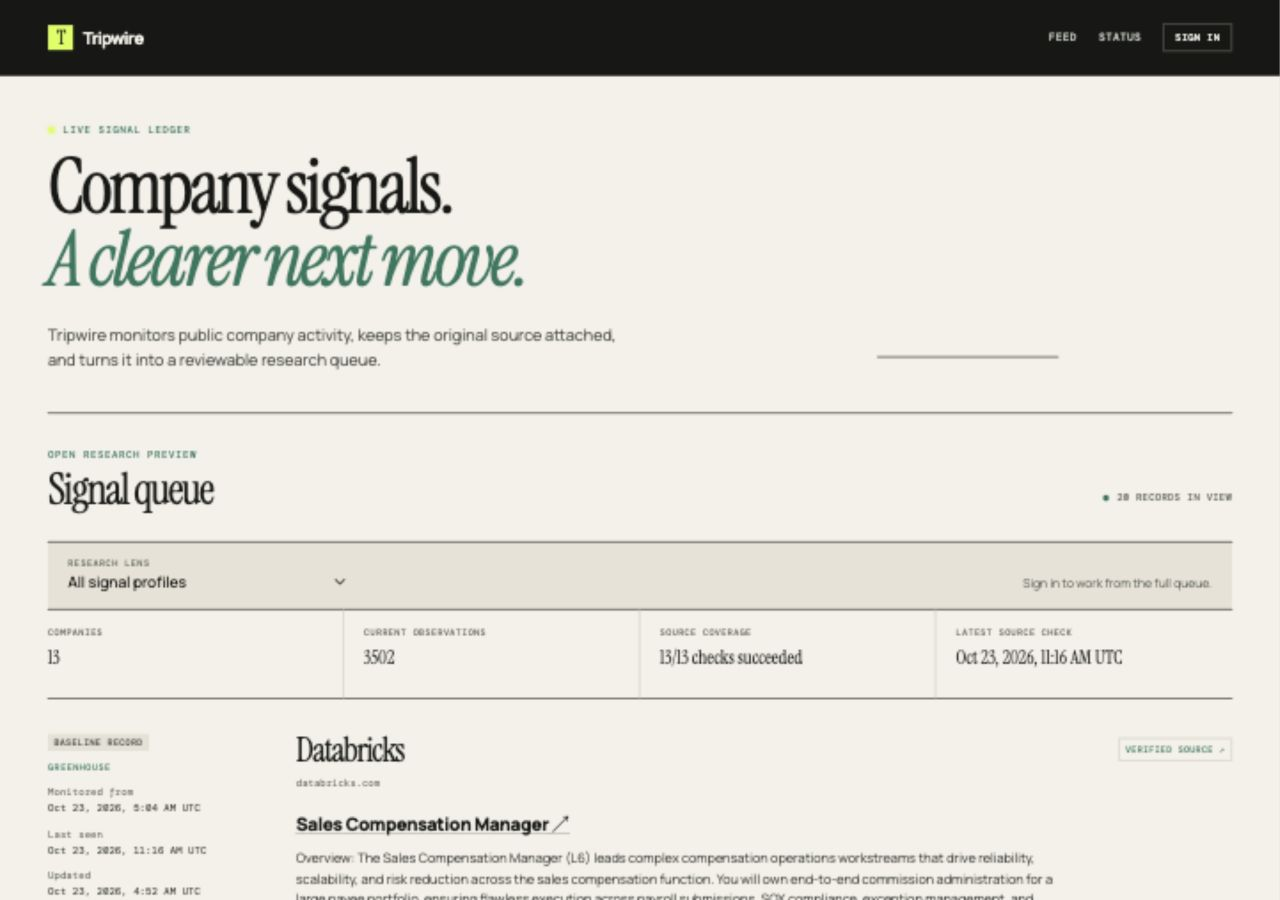
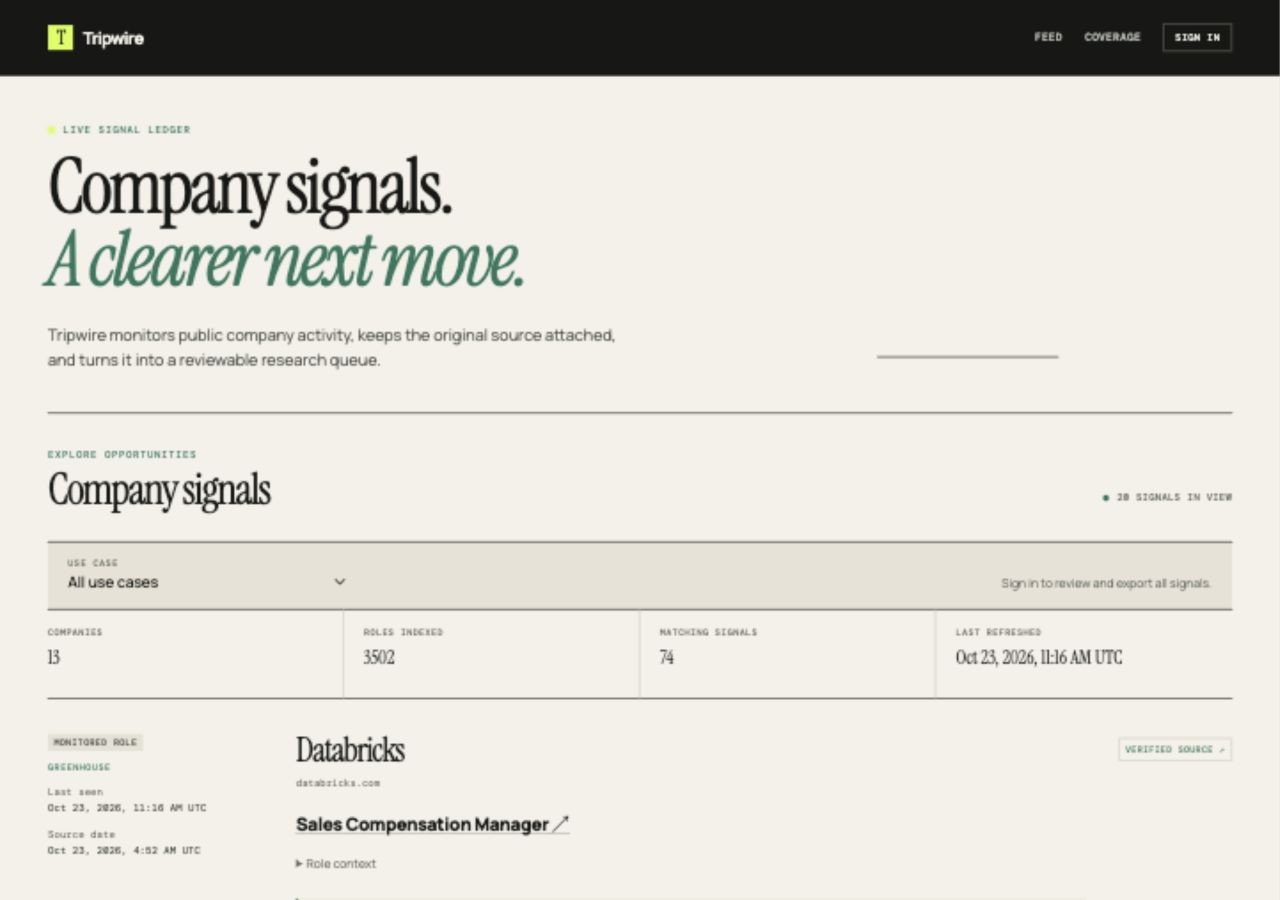
fix(ui): focus client views on signals and company coverage

diff --git a/app/components/Feed.tsx b/app/components/Feed.tsx
@@ -59,14 +59,13 @@ export default function Feed({ initialFeed, authenticated = false }: FeedProps) 
 
   const metrics = feed?.metrics || {};
   const checks = Array.isArray(feed?.health) ? feed.health : [];
-  const latestCheck = checks.map((check: any) => check.checkedAt).filter(Boolean).sort().at(-1);
-  const successfulChecks = checks.filter((check: any) => check.status === 'success').length;
+  const latestCheck = checks.map((check: any) => check.lastSuccessAt).filter(Boolean).sort().at(-1);
   return <section className="feed-section" aria-labelledby="feed-title" aria-busy={loading}>
-    <div className="section-bar"><div><p className="eyebrow">{authenticated ? 'Research workspace' : 'Open research preview'}</p><h2 id="feed-title">Signal queue</h2></div><p className="count" aria-live="polite"><span className="count-pip" aria-hidden="true" />{loading ? 'Refreshing queue' : `${opportunities.length} records in view`}</p></div>
-    <div className="profile-row"><div className="profile-control"><label htmlFor="profile-select">Research lens</label><select id="profile-select" value={profileId} onChange={(event) => changeProfile(event.target.value)}><option value="">All signal profiles</option>{profiles.map((profile: any) => <option value={profile.id} key={profile.id}>{profile.name}{profile.version ? ` · v${profile.version}` : ''}</option>)}</select></div>{authenticated && <a className="export-link" href={profileId ? `/api/export?profileId=${encodeURIComponent(profileId)}` : '/api/export'}>Export records <span aria-hidden="true">↗</span></a>}{!authenticated && <span className="public-note">Sign in to work from the full queue.</span>}</div>
+    <div className="section-bar"><div><p className="eyebrow">{authenticated ? 'Your opportunities' : 'Explore opportunities'}</p><h2 id="feed-title">Company signals</h2></div><p className="count" aria-live="polite"><span className="count-pip" aria-hidden="true" />{loading ? 'Refreshing queue' : `${opportunities.length} signals in view`}</p></div>
+    <div className="profile-row"><div className="profile-control"><label htmlFor="profile-select">Use case</label><select id="profile-select" value={profileId} onChange={(event) => changeProfile(event.target.value)}><option value="">All use cases</option>{profiles.map((profile: any) => <option value={profile.id} key={profile.id}>{profile.name}{profile.version ? ` · v${profile.version}` : ''}</option>)}</select></div>{authenticated && <a className="export-link" href={profileId ? `/api/export?profileId=${encodeURIComponent(profileId)}` : '/api/export'}>Export records <span aria-hidden="true">↗</span></a>}{!authenticated && <span className="public-note">Sign in to review and export all signals.</span>}</div>
     {requestError && <p className="inline-error" role="status">{requestError}</p>}
-    <dl className="feed-metrics"><div><dt>Companies</dt><dd>{typeof metrics.companies === 'number' ? metrics.companies : '—'}</dd></div><div><dt>Current observations</dt><dd>{typeof metrics.currentObservations === 'number' ? metrics.currentObservations : '—'}</dd></div><div><dt>Source coverage</dt><dd>{checks.length ? `${successfulChecks}/${checks.length} checks succeeded` : 'No checks reported'}</dd></div><div><dt>Latest source check</dt><dd>{latestCheck ? date(latestCheck) : 'Unavailable'}</dd></div></dl>
-    {!opportunities.length ? <div className="empty-state"><p className="eyebrow">Queue empty</p><h3>No records match this lens.</h3><p>Try another research lens or return when the next source check completes.</p></div> : <div className="feed-list">{opportunities.map((opportunity: any) => <Opportunity key={opportunity.id} opportunity={opportunity} authenticated={authenticated} feedback={feedback[opportunity.id]} onFeedback={sendFeedback} />)}</div>}
+    <dl className="feed-metrics"><div><dt>Companies</dt><dd>{typeof metrics.companies === 'number' ? metrics.companies : '—'}</dd></div><div><dt>Roles indexed</dt><dd>{typeof metrics.currentObservations === 'number' ? metrics.currentObservations : '—'}</dd></div><div><dt>Matching signals</dt><dd>{typeof metrics.matchingOpportunities === 'number' ? metrics.matchingOpportunities : '—'}</dd></div><div><dt>Last refreshed</dt><dd>{latestCheck ? date(latestCheck) : 'Unavailable'}</dd></div></dl>
+    {!opportunities.length ? <div className="empty-state"><p className="eyebrow">Queue empty</p><h3>No signals match this use case.</h3><p>Choose another use case to explore more signals.</p></div> : <div className="feed-list">{opportunities.map((opportunity: any) => <Opportunity key={opportunity.id} opportunity={opportunity} authenticated={authenticated} feedback={feedback[opportunity.id]} onFeedback={sendFeedback} />)}</div>}
   </section>;
 }
 
@@ -75,12 +74,12 @@ function Opportunity({ opportunity, authenticated, feedback, onFeedback }: { opp
   const event = opportunity.event || opportunity;
   const href = safeSourceUrl(event.url);
   return <article className="opportunity" aria-labelledby={`opportunity-${opportunity.id}`}>
-    <aside className="opportunity-meta"><span className={`observation-state${event.baseline ? '' : ' observation-state--new'}`}>{event.baseline ? 'Baseline record' : 'New observation'}</span><span className="source">{event.source || 'Public source'}</span>{event.baseline ? <span>Monitored from<b>{date(event.firstSeen)}</b></span> : <span>First observed<b>{date(event.firstSeen)}</b></span>}<span>Last seen<b>{date(event.lastSeen || event.versionObservedAt)}</b></span>{event.sourcePublishedAt && <span>Last published<b>{date(event.sourcePublishedAt)}</b></span>}{event.sourceUpdatedAt && <span>Updated<b>{date(event.sourceUpdatedAt)}</b></span>}</aside>
+    <aside className="opportunity-meta"><span className={`observation-state${event.baseline ? '' : ' observation-state--new'}`} title={event.baseline ? 'This role was already listed when monitoring began.' : 'Observed after monitoring began.'}>{event.baseline ? 'Monitored role' : 'New observation'}</span><span className="source">{event.source || 'Public source'}</span><span>Last seen<b>{date(event.lastSeen || event.versionObservedAt)}</b></span>{(event.sourcePublishedAt || event.sourceUpdatedAt) && <span>Source date<b>{date(event.sourcePublishedAt || event.sourceUpdatedAt)}</b></span>}</aside>
     <div className="opportunity-body"><div className="company-line"><div><h3 id={`opportunity-${opportunity.id}`}>{company.name || 'Unknown company'}</h3>{company.domain && <span className="domain">{company.domain}</span>}</div>{company.verified ? (safeSourceUrl(company.verificationUrl) ? <a className="verified" href={safeSourceUrl(company.verificationUrl) as string} target="_blank" rel="noopener noreferrer">Verified source <span aria-hidden="true">↗</span></a> : <span className="verified">Verified source</span>) : <span className="unverified">Unverified domain</span>}</div>
       <p className="event-title">{href ? <a href={href} target="_blank" rel="noopener noreferrer">{event.title || opportunity.title || 'Source event'} <span aria-hidden="true">↗</span></a> : (event.title || opportunity.title || 'Source event')}</p>
-      {event.text && <p className="event-text">{preview(event.text)}</p>}
-      <div className="evidence-list">{Array.isArray(opportunity.matches) && opportunity.matches.map((match: any, index: number) => <section className="evidence" key={match.ruleId || index}><p className="rule-label">Why it entered this queue</p><p className="evidence-title">{match.label || 'Source evidence'}</p>{match.excerpt && <blockquote>“{preview(match.excerpt, 300)}”</blockquote>}{match.suggestion && <p className="suggestion">{match.suggestion}</p>}{match.question && <p className="question"><strong>Next question</strong> {match.question}</p>}</section>)}</div>
-      {authenticated ? <div className="feedback"><span>Mark for this lens</span><button onClick={() => onFeedback(opportunity.id, 'relevant')}>Relevant</button><button onClick={() => onFeedback(opportunity.id, 'irrelevant')}>Not relevant</button>{feedback && <em role="status" aria-live="polite">{feedback}</em>}</div> : <p className="review-note">Read the cited source before making a decision.</p>}
+      {event.text && <details className="role-context"><summary>Role context</summary><p className="event-text">{preview(event.text)}</p></details>}
+      <div className="evidence-list">{Array.isArray(opportunity.matches) && opportunity.matches.map((match: any, index: number) => <section className="evidence" key={match.ruleId || index}><p className="rule-label">Opportunity</p><p className="evidence-title">{match.label || 'Source evidence'}</p>{match.excerpt && <blockquote>“{preview(match.excerpt, 300)}”</blockquote>}{match.suggestion && <p className="suggestion">{match.suggestion}</p>}{match.question && <p className="question"><strong>Next question</strong> {match.question}</p>}</section>)}</div>
+      {authenticated ? <div className="feedback"><span>Relevant to your work?</span><button onClick={() => onFeedback(opportunity.id, 'relevant')}>Relevant</button><button onClick={() => onFeedback(opportunity.id, 'irrelevant')}>Not relevant</button>{feedback && <em role="status" aria-live="polite">{feedback}</em>}</div> : null}
     </div>
   </article>;
 }

diff --git a/app/status/page.tsx b/app/status/page.tsx
@@ -1,45 +1,42 @@
 import { getPublicHealth } from '../../src/repository.js';
+import { getDb } from '../../src/db.js';
 
 export const dynamic = 'force-dynamic';
 
-function asCount(value: unknown) { return typeof value === 'number' && Number.isFinite(value) ? value : 0; }
 function formatTime(value: unknown) {
-  if (typeof value !== 'string' || Number.isNaN(Date.parse(value))) return '—';
+  if (typeof value !== 'string' || Number.isNaN(Date.parse(value))) return 'Not yet refreshed';
   return new Intl.DateTimeFormat('en-US', { month: 'short', day: 'numeric', hour: 'numeric', minute: '2-digit', timeZone: 'UTC' }).format(new Date(value)) + ' UTC';
 }
 
-export default async function StatusPage() {
-  const health: any = await getPublicHealth();
-  const metrics = health?.metrics || {};
-  const successful = asCount(metrics.successfulBoards);
-  const failed = asCount(metrics.failedBoards);
-  const stale = asCount(metrics.staleBoards);
-  const fresh = Array.isArray(health?.checks)
-    ? health.checks.filter((check: any) => check.status === 'success' && check.stale === false).length
-    : 0;
-  const checkedAt = health?.latestRun?.finishedAt
-    || health?.checks?.map((check: any) => check.checkedAt).filter(Boolean).sort().at(-1)
-    || health?.latestRun?.startedAt;
-  const reportTime = checkedAt && !Number.isNaN(Date.parse(checkedAt))
-    ? new Intl.DateTimeFormat(undefined, { dateStyle: 'medium', timeStyle: 'short' }).format(new Date(checkedAt))
-    : null;
+export default async function CoveragePage() {
+  const [health, catalog] = await Promise.all([
+    getPublicHealth(),
+    getDb().query(`SELECT c.id, c.payload->>'name' AS name, c.payload->>'domain' AS domain,
+      count(o.id)::int AS roles FROM companies c
+      LEFT JOIN observations o ON o.company_id=c.id AND o.current=true
+      WHERE c.payload->>'active'='true'
+      GROUP BY c.id ORDER BY lower(c.payload->>'name')`),
+  ]);
+  const checks = health.checks || [];
+  const lastRefresh = checks.map((check: any) => check.lastSuccessAt).filter(Boolean).sort().at(-1);
   return (
-    <section className="status-page" aria-labelledby="status-title">
-      <p className="eyebrow">Collection status</p>
-      <h1 id="status-title">Source availability,<br /><em>in plain view.</em></h1>
-      <p className="intro-copy">Collection freshness and source availability across monitored boards.</p>
-      <div className="status-grid" aria-label="Collection health summary">
-        <Stat value={successful} label="successful checks" />
-        <Stat value={failed} label="failed checks" failed={failed > 0} />
-        <Stat value={fresh} label="fresh sources" />
-        <Stat value={stale} label="stale sources" failed={stale > 0} />
+    <section className="status-page" aria-labelledby="coverage-title">
+      <p className="eyebrow">Data coverage</p>
+      <h1 id="coverage-title">Know who<br /><em>you can discover.</em></h1>
+      <p className="intro-copy">Explore the companies behind your feed and see when their job listings were last refreshed.</p>
+      <div className="status-grid coverage-summary" aria-label="Data coverage summary">
+        <div className="status-stat"><strong>{catalog.rows.length}</strong><span>Companies monitored</span></div>
+        <div className="status-stat"><strong>{health.metrics.currentObservations.toLocaleString('en-US')}</strong><span>Roles indexed</span></div>
       </div>
-      <div className="status-detail-bar"><span>Matching benchmark <b>Pending evaluation</b></span><span>{reportTime ? `Last reported ${reportTime}` : 'No collection checks reported'}</span></div>
-      {Array.isArray(health?.checks) && health.checks.length > 0 && <div className="source-table-wrap"><table className="source-table"><caption>Monitored source boards</caption><thead><tr><th scope="col">Board</th><th scope="col">Source</th><th scope="col">Last check</th><th scope="col">Records seen</th><th scope="col">State</th></tr></thead><tbody>{health.checks.map((check: any) => <tr key={`${check.companyId}-${check.source}-${check.boardSlug}`}><td>{check.boardSlug}</td><td>{check.source}</td><td>{formatTime(check.checkedAt)}</td><td>{typeof check.jobsObserved === 'number' ? check.jobsObserved : '—'}</td><td><span className={`table-state ${check.status === 'success' && !check.stale ? 'table-state--ready' : ''}`}>{check.status === 'success' ? (check.stale ? 'Stale' : 'Available') : 'Attention'}</span></td></tr>)}</tbody></table></div>}
+      <div className="status-detail-bar"><span>Last refreshed <b>{formatTime(lastRefresh)}</b></span><a href="/">Explore signals ↗</a></div>
+      <div className="source-table-wrap"><table className="source-table">
+        <caption>Company coverage</caption>
+        <thead><tr><th scope="col">Company</th><th scope="col">Website</th><th scope="col">Roles indexed</th><th scope="col">Last refreshed</th></tr></thead>
+        <tbody>{catalog.rows.map((company: any) => {
+          const refreshed = checks.filter((check: any) => check.companyId === company.id).map((check: any) => check.lastSuccessAt).filter(Boolean).sort().at(-1);
+          return <tr key={company.id}><td>{company.name}</td><td>{company.domain}</td><td>{company.roles.toLocaleString('en-US')}</td><td>{formatTime(refreshed)}</td></tr>;
+        })}</tbody>
+      </table>{catalog.rows.length === 0 && <p className="status-note">Company coverage will appear after the first collection.</p>}</div>
     </section>
   );
-}
-
-function Stat({ value, label, failed = false }: { value: number; label: string; failed?: boolean }) {
-  return <div className={`status-stat${failed ? ' attention' : ''}`}><strong>{value}</strong><span>{label}</span></div>;
 }

diff --git a/app/layout.tsx b/app/layout.tsx
@@ -16,7 +16,7 @@ function Header() {
       <a className="wordmark" href="/" aria-label="Tripwire home"><span className="wordmark-mark" aria-hidden="true">T</span>Tripwire</a>
       <nav aria-label="Primary navigation" className="site-nav">
         <a href="/">Feed</a>
-        <a href="/status">Status</a>
+        <a href="/status">Coverage</a>
         {clerkConfigured ? (
           <div className="account-controls">
             <Show when="signed-in"><OrganizationSwitcher hidePersonal={false} /><UserButton /></Show>
@@ -31,7 +31,7 @@ function Header() {
 }
 
 export default function RootLayout({ children }: Readonly<{ children: ReactNode }>) {
-  const content = <><Header /><main>{children}</main><footer><span>Tripwire</span><span>Public evidence for human review.</span></footer></>;
+  const content = <><Header /><main>{children}</main><footer><span>Tripwire</span><span>Company signals. Source included.</span></footer></>;
   return (
     <html lang="en">
       <body>{clerkConfigured ? <ClerkProvider>{content}</ClerkProvider> : content}</body>

diff --git a/app/globals.css b/app/globals.css
@@ -857,3 +857,9 @@ footer {
     min-width: 320px;
   }
 }
+
+.coverage-summary { grid-template-columns: repeat(2, 1fr); }
+.role-context { margin: 0 0 20px; color: var(--ash); font-size: 12px; }
+.role-context summary { cursor: pointer; padding: 6px 0; width: fit-content; }
+.role-context summary:focus-visible { outline: 2px solid var(--green); outline-offset: 3px; }
+.role-context .event-text { margin: 8px 0 0; }

diff --git a/docs/ENGINEERING.md b/docs/ENGINEERING.md
@@ -7,7 +7,7 @@
 - `/api/export?profileId=...` exports up to 1,000 authenticated CSV rows.
 - `/api/feedback` accepts authenticated same-origin feedback; tenant and user identity come from the verified session.
 - `/api/collect` accepts operator-allowlisted same-origin POST requests. Scheduled GET requests require a valid bearer token configured through `CRON_SECRET` (at least 32 characters).
-- `/status` and `/api/health` report collection health.
+- `/status` presents client-facing company coverage and last successful refresh dates. `/api/health` exposes collection diagnostics.
 
 Evaluation currently examines the latest 10,000 active observations. Pagination and materialized evaluation are planned for larger catalogs.
 

diff --git a/README.md b/README.md
@@ -16,7 +16,7 @@ Built with **Next.js, PostgreSQL, and Clerk**.
 - **Reusable use cases.** Versioned profiles for AI automation and technology modernization run against the same collected catalog.
 - **Continuous monitoring.** Scheduled collection tracks new listings, edits, and removals while retaining observation history.
 - **Authenticated workspaces.** Clerk handles sign-in and optional organization workspaces. Members can review signals, record relevance feedback, and export CSV.
-- **Visible source health.** A public status page reports collection freshness and board-level results.
+- **Company coverage.** Browse monitored companies, indexed roles, and the freshness of each company’s data.
 
 ## How it works
 
